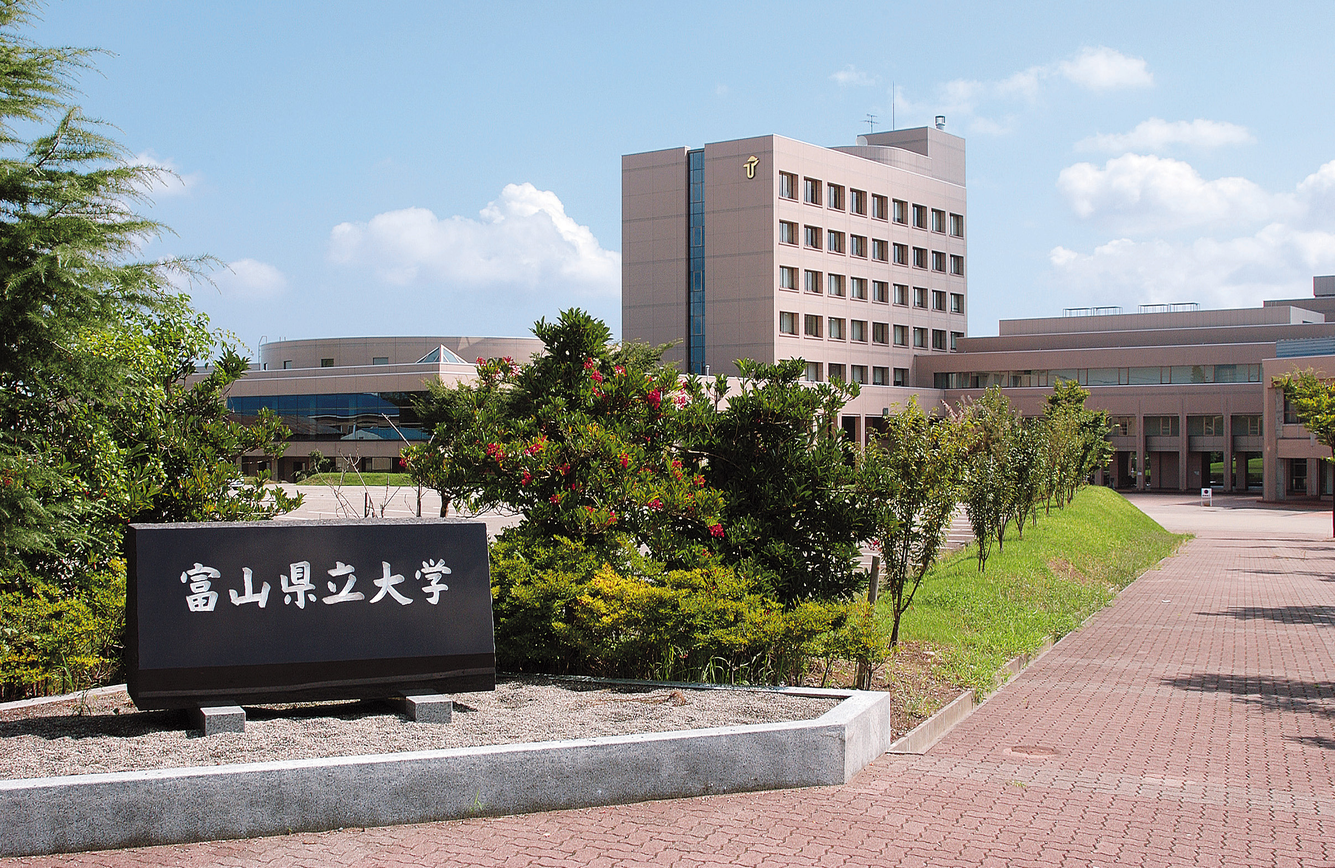
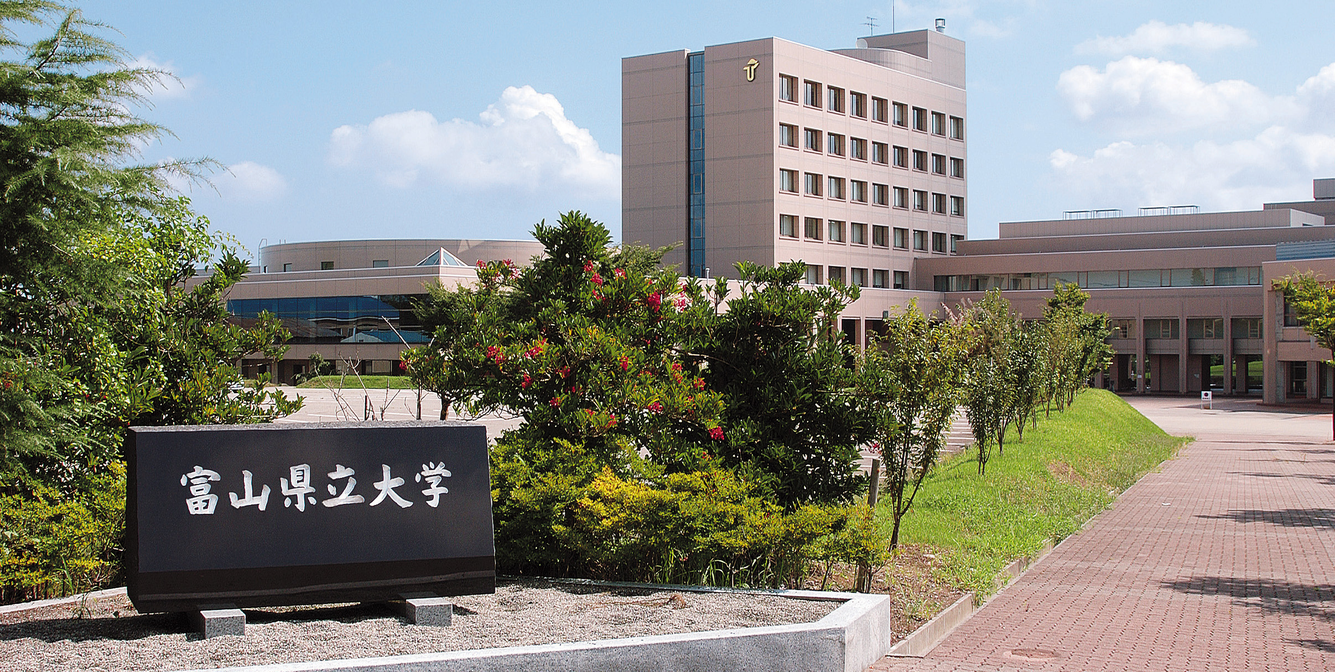
change size of top-image

diff --git a/ccp/home.php b/ccp/home.php
@@ -87,7 +87,7 @@ function check_limit($str){
     <?php include_once("analyticstracking.php") ?>
     <?php require("header.php"); ?>
     <div class="contents">
-      <div class="top" style='width:50%;margin:0 auto;margin-bottom:20px;'>
+      <div class="top" style='width:100%;margin:0 auto;margin-bottom:20px;'>
         <img src="./assets/img/pic/tpu-image.jpg" alt="">
       </div>
       <div class='jump_tab'>
